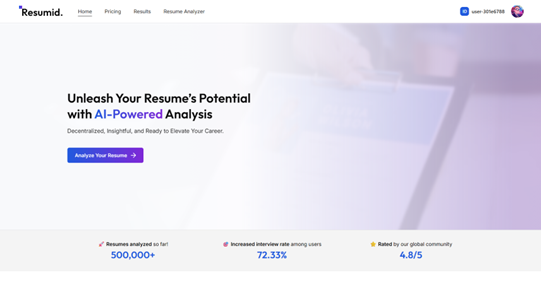
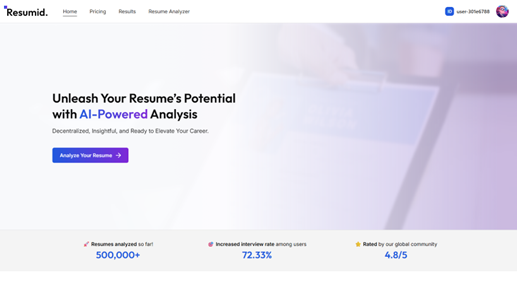
changed: image size

diff --git a/src/datas/Projects.js b/src/datas/Projects.js
@@ -4,7 +4,7 @@ const Projects = [
     navigation: "/project/6",
     alt: "Resumid, CV Analyzer Website",
     width: "550px",
-    height: "309.66px",
+    height: "340.66px",
   },
   {
     path: "/batique.png",
